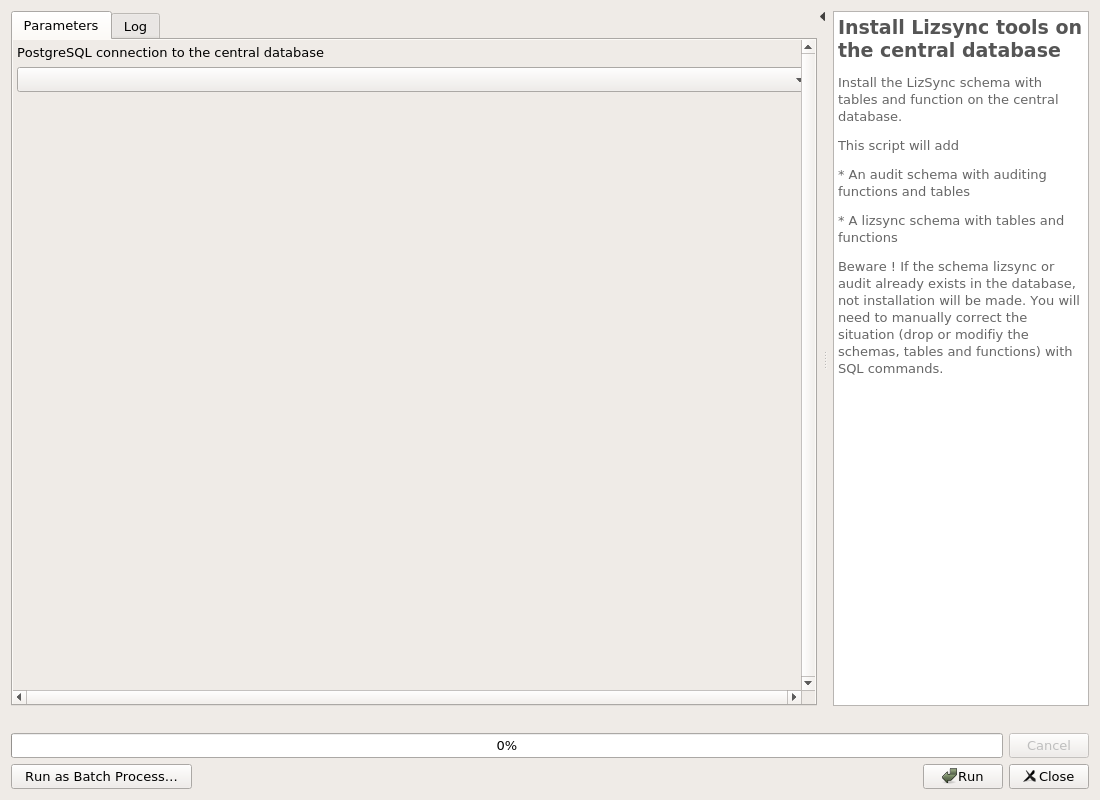
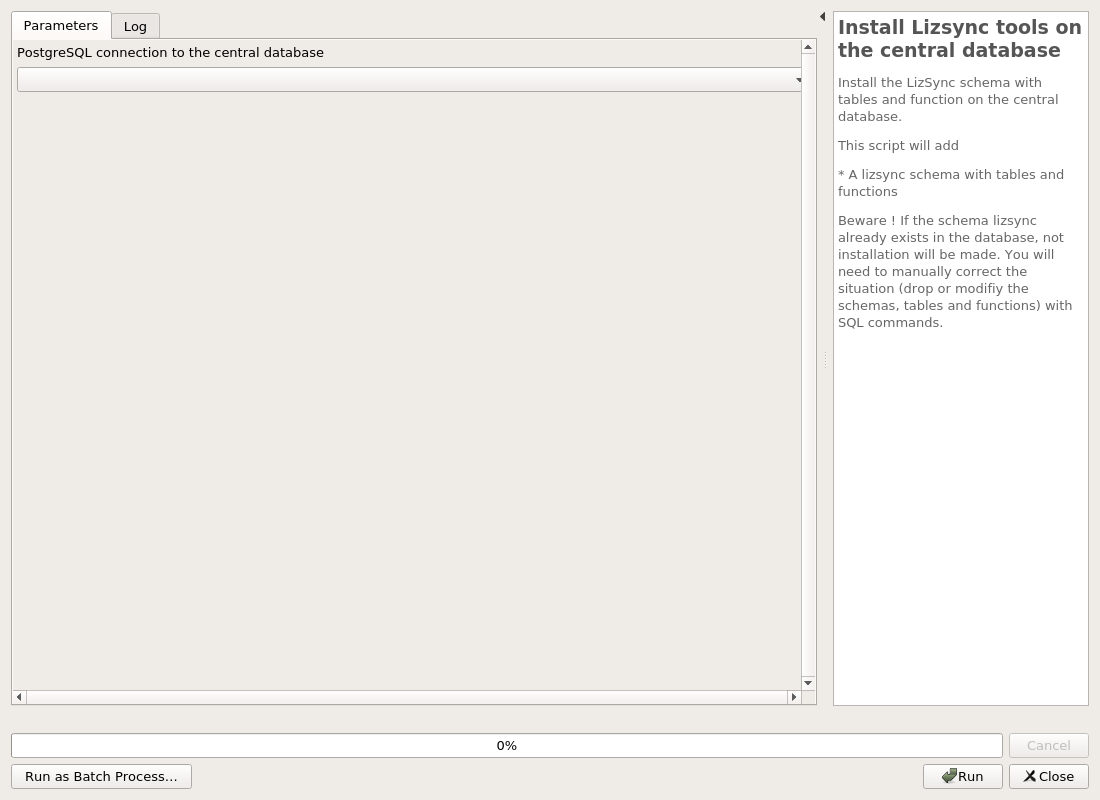
Docs - update processing auto-generated documentation

Changed region(s): [[0.7418, 0.1875, 0.9891, 0.4688]]

diff --git a/docs/processing/README.md b/docs/processing/README.md
@@ -84,10 +84,9 @@ OUTPUT_STRING|Output message|String||
  Install the LizSync schema with tables and function on the central database.
 
  This script will add
- * An audit schema with auditing functions and tables
  * A lizsync schema with tables and functions
 
-Beware ! If the schema lizsync or audit already exists in the database, not installation will be made. You will need to manually correct the situation (drop or modifiy the schemas, tables and functions) with SQL commands.
+Beware ! If the schema lizsync already exists in the database, not installation will be made. You will need to manually correct the situation (drop or modifiy the schemas, tables and functions) with SQL commands.
 
 ![algo_id](./lizsync-create_database_structure.png)
 
@@ -96,7 +95,6 @@ Beware ! If the schema lizsync or audit already exists in the database, not inst
 | ID | Description | Type | Info | Required | Advanced | Option |
 |:-:|:-:|:-:|:-:|:-:|:-:|:-:|
 CONNECTION_NAME|PostgreSQL connection to the central database|String|The PostgreSQL connection to the central database. You need to have the right to create a new schema in this database, as a schema lizsync will be created and filled with the needed tables and functions|✓|||
-OVERRIDE_AUDIT|Drop audit schema and all data ?|Boolean||✓|||
 OVERRIDE_LIZSYNC|Drop lizsync schema and all data ?|Boolean||✓|||
 
 
@@ -118,7 +116,7 @@ OUTPUT_STRING|Output message|String||
  LizSync needs to have :
  * A server ID stored in the lizsync.server_metadata table
  * All tables from the given schema must have a unique identifier column (uid) with standard uuid inside
- * All tables from the given schema must be audited (trigger of the audit tool)
+ * All tables from the given schema must be audited by a trigger
 
  You can pass a list of PostgreSQL central database schemas and this alg will add the necessary data and tools
 
@@ -132,7 +130,7 @@ CONNECTION_NAME_CENTRAL|PostgreSQL connection to the central database|String|The
 ADD_SERVER_ID|Add server id in metadata table|Boolean||✓||Default: True <br> |
 ADD_UID_COLUMNS|Add unique identifiers in all tables|Boolean||✓|||
 ADD_AUDIT_TRIGGERS|Add audit triggers in all tables|Boolean||✓|||
-SCHEMAS|Restrict to comma separated schema names. NB: schemas public, lizsync & audit are never processed|String|||||
+SCHEMAS|Restrict to comma separated schema names. NB: schemas public & lizsync are never processed|String|||||
 
 
 #### Outputs
@@ -319,7 +317,7 @@ OUTPUT_STRING|Output message|String||
 
  This scripts run a two-way data synchronization between the central and clone database.
 
- The data to synchronize are listed by reading the content of the "audit.logged_actions" of each database, since the last synchronization or the last deployement of ZIP package.
+ The data to synchronize are listed by reading the content of the "lizsync.logged_actions" of each database, since the last synchronization or the last deployement of ZIP package.
 
  This audit data are transformed into INSERT/UPDATE/DELETE SQL queries which are played in the databases in this order:
  1/ From the CENTRAL to the CLONE database
